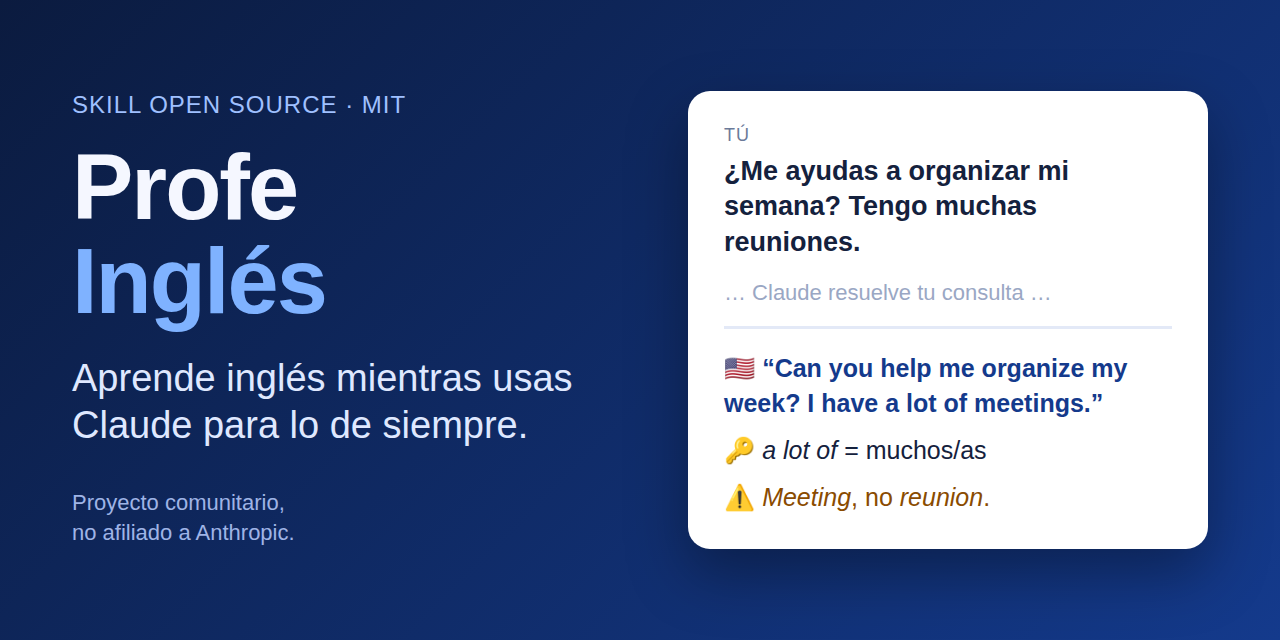
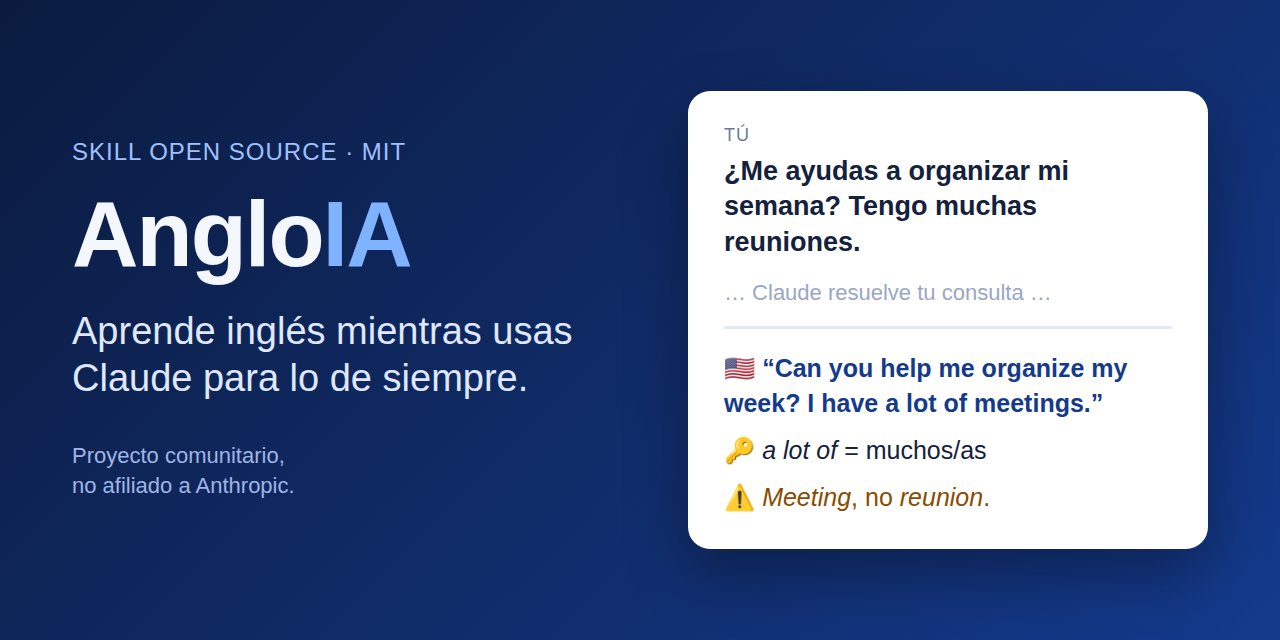
feat: renombra el proyecto a AngloIA (antes Profe Inglés) (#13)
El nuevo nombre combina «Anglo» (inglés) con «IA», la sigla española de inteligencia artificial. La skill, el plugin, el marketplace, las carpetas, los zips, las URLs, la configuración de release-please, el validador, las pruebas y la documentación pasan de profe-ingles a angloia. CHANGELOG.md queda solo con su encabezado para que release-please lo formatee bien.

Claude-Session: https://claude.ai/code/session_0121FB4whpUjnLL93vzy123R

Changed region(s): [[0.0312, 0.2188, 0.4688, 0.8438], [0.0625, 0.125, 0.3125, 0.1875]]

diff --git a/docs/social-preview.html b/docs/social-preview.html
@@ -2,7 +2,7 @@
 <html lang="es">
 <head>
 <meta charset="utf-8">
-<title>Profe Inglés — vista previa social</title>
+<title>AngloIA — vista previa social</title>
 <!-- Fuente de docs/social-preview.png (1280 × 640, el tamaño que pide GitHub).
      Para regenerarla con Playwright (Node), desde la raíz del repo:
 
@@ -61,7 +61,7 @@
 <body>
   <div class="left">
     <div class="tag">Skill open source · MIT</div>
-    <h1>Profe<br><span>Inglés</span></h1>
+    <h1>Anglo<span>IA</span></h1>
     <p class="lead">Aprende inglés mientras usas Claude para lo de siempre.</p>
     <p class="foot">Proyecto comunitario,<br>no afiliado a Anthropic.</p>
   </div>

diff --git a/scripts/test_validate.py b/scripts/test_validate.py
@@ -71,23 +71,23 @@ class TestValidRepo(RepoCase):
 
 class TestSkillFormat(RepoCase):
     def test_nombre_con_claude(self) -> None:
-        self.edit(SKILL_MD, lambda t: t.replace("name: profe-ingles", "name: profe-claude", 1))
+        self.edit(SKILL_MD, lambda t: t.replace("name: angloia", "name: angloia-claude", 1))
         self.assertFailsOnly("formato de SKILL.md", "claude")
 
     def test_nombre_no_coincide_con_la_carpeta(self) -> None:
-        self.edit(SKILL_MD, lambda t: t.replace("name: profe-ingles", "name: otro-nombre", 1))
+        self.edit(SKILL_MD, lambda t: t.replace("name: angloia", "name: otro-nombre", 1))
         self.assertFailsOnly("formato de SKILL.md", "debe coincidir con la carpeta")
 
     def test_nombre_con_mayusculas(self) -> None:
-        self.edit(SKILL_MD, lambda t: t.replace("name: profe-ingles", "name: Profe_Ingles", 1))
+        self.edit(SKILL_MD, lambda t: t.replace("name: angloia", "name: Anglo_IA", 1))
         self.assertFailsOnly("formato de SKILL.md", "minúsculas")
 
     def test_nombre_demasiado_largo(self) -> None:
-        self.edit(SKILL_MD, lambda t: t.replace("name: profe-ingles", "name: " + "a" * 65, 1))
+        self.edit(SKILL_MD, lambda t: t.replace("name: angloia", "name: " + "a" * 65, 1))
         self.assertFailsOnly("formato de SKILL.md", "máximo 64")
 
     def test_descripcion_demasiado_larga(self) -> None:
-        self.edit(SKILL_MD, lambda t: t.replace("---\n\n# Profe", "  " + "palabra " * 40 + "\n---\n\n# Profe", 1))
+        self.edit(SKILL_MD, lambda t: t.replace("---\n\n# AngloIA", "  " + "palabra " * 40 + "\n---\n\n# AngloIA", 1))
         self.assertFailsOnly("formato de SKILL.md", "máximo 1024")
 
     def test_descripcion_con_etiqueta_xml(self) -> None:
@@ -114,7 +114,7 @@ class TestSkillFormat(RepoCase):
         self.assertFailsOnly("formato de SKILL.md", "frontmatter")
 
     def test_clave_desconocida(self) -> None:
-        self.edit(SKILL_MD, lambda t: t.replace("name: profe-ingles\n", "name: profe-ingles\nfoo: bar\n", 1))
+        self.edit(SKILL_MD, lambda t: t.replace("name: angloia\n", "name: angloia\nfoo: bar\n", 1))
         self.assertFailsOnly("formato de SKILL.md", "claves no permitidas")
 
 
@@ -168,7 +168,7 @@ class TestManifests(RepoCase):
     def test_source_inexistente(self) -> None:
         self.edit(
             ".claude-plugin/marketplace.json",
-            lambda t: t.replace("./plugins/profe-ingles", "./plugins/otro"),
+            lambda t: t.replace("./plugins/angloia", "./plugins/otro"),
         )
         self.assertFailsOnly("manifiestos y versiones", "source")
 
@@ -257,12 +257,12 @@ class TestBuildZips(RepoCase):
         self.assertEqual(build_zips.verify(skill, plugin), [])
         with zipfile.ZipFile(skill) as zf:
             names = zf.namelist()
-        self.assertIn("profe-ingles/SKILL.md", names)
-        self.assertTrue(all(n.startswith("profe-ingles/") for n in names))
+        self.assertIn("angloia/SKILL.md", names)
+        self.assertTrue(all(n.startswith("angloia/") for n in names))
         self.assertEqual(len([n for n in names if "/references/" in n]), 4)
         with zipfile.ZipFile(plugin) as zf:
             manifest = json.loads(zf.read(".claude-plugin/plugin.json"))
-        self.assertEqual(manifest["name"], "profe-ingles")
+        self.assertEqual(manifest["name"], "angloia")
 
     def test_zips_reproducibles(self) -> None:
         first = self.build(Path(self._tmp.name) / "a")
@@ -279,7 +279,7 @@ class TestBuildZips(RepoCase):
         with zipfile.ZipFile(plugin, "w") as zf:
             zf.writestr("otra-cosa.txt", "x")
         errors = build_zips.verify(skill, plugin)
-        self.assertTrue(any("profe-ingles/SKILL.md" in e for e in errors))
+        self.assertTrue(any("angloia/SKILL.md" in e for e in errors))
         self.assertTrue(any("plugin.json" in e for e in errors))
 
 

diff --git a/scripts/build_zips.py b/scripts/build_zips.py
@@ -1,8 +1,8 @@
 #!/usr/bin/env python3
 """Genera los dos zips de cada release. Solo usa la librería estándar.
 
-    profe-ingles.zip         Para claude.ai (Skills). La carpeta de la skill va en la raíz del zip.
-    profe-ingles-plugin.zip  Para Claude Code y para enviar al directorio. El plugin va en la raíz del zip.
+    angloia.zip         Para claude.ai (Skills). La carpeta de la skill va en la raíz del zip.
+    angloia-plugin.zip  Para Claude Code y para enviar al directorio. El plugin va en la raíz del zip.
 
 Los zips son reproducibles: mismo contenido, mismo orden y fechas fijas, así que
 el mismo commit siempre produce los mismos bytes.
@@ -19,7 +19,7 @@ import sys
 import zipfile
 from pathlib import Path
 
-NAME = "profe-ingles"
+NAME = "angloia"
 ROOT = Path(__file__).resolve().parent.parent
 PLUGIN_DIR = Path("plugins") / NAME
 FIXED_DATE = (2020, 1, 1, 0, 0, 0)

diff --git a/scripts/validate.py b/scripts/validate.py
@@ -1,5 +1,5 @@
 #!/usr/bin/env python3
-"""Valida el repositorio de Profe Inglés. Solo usa la librería estándar.
+"""Valida el repositorio de AngloIA. Solo usa la librería estándar.
 
 Cada comprobación devuelve una lista de errores (vacía si todo está bien).
 Código de salida: 0 si no hay errores, 1 si hay alguno.
@@ -18,7 +18,7 @@ import sys
 from pathlib import Path
 from typing import Callable
 
-SKILL_NAME = "profe-ingles"
+SKILL_NAME = "angloia"
 SKILL_REL = Path("plugins") / SKILL_NAME / "skills" / SKILL_NAME
 PLUGIN_REL = Path("plugins") / SKILL_NAME
 INSTRUCTIONS_REL = Path("instrucciones") / "instrucciones-claude.md"

diff --git a/docs/lanzamiento/mensajes.md b/docs/lanzamiento/mensajes.md
@@ -4,14 +4,14 @@ Borradores para el lanzamiento escalonado (días 19 a 21 del plan), en el **orde
 
 ## Antes de publicar cualquier cosa
 
-- [ ] Existe el Release **v1.0.0** con `profe-ingles.zip` y el enlace directo del README funciona.
+- [ ] Existe el Release **v1.0.0** con `angloia.zip` y el enlace directo del README funciona.
 - [ ] El README tiene el GIF de antes y después en los primeros 5 segundos.
 - [ ] La retención de la beta llegó al 60 % y no quedan errores graves de traducción sin corregir.
 - [ ] El aviso de **no afiliación con Anthropic** está en el README y aparece en cada pieza.
 
 **Regla para todos los mensajes:** no publiques cifras, testimonios ni capturas que no tengas. Donde ves `[…]`, pon un dato **real** de tu beta o quita la frase. No uses conversaciones reales de nadie; enseña ejemplos inventados.
 
-Enlaces a reemplazar: `[REPO]` = https://github.com/juancastro1330/skill-ingles · `[ZIP]` = https://github.com/juancastro1330/skill-ingles/releases/latest/download/profe-ingles.zip · `[VIDEO]` = el enlace del video de 60 s.
+Enlaces a reemplazar: `[REPO]` = https://github.com/juancastro1330/angloia · `[ZIP]` = https://github.com/juancastro1330/angloia/releases/latest/download/angloia.zip · `[VIDEO]` = el enlace del video de 60 s.
 
 ---
 
@@ -19,7 +19,7 @@ Enlaces a reemplazar: `[REPO]` = https://github.com/juancastro1330/skill-ingles 
 
 **Por qué primero:** son tus primeras estrellas y testimonios. **Qué pedir:** que lo compartan si les sirvió, no que lo hagan por compromiso.
 
-> Ya salió Profe Inglés 🎉 Gracias por probarlo cuando todavía tenía aristas. Con lo que me contaste cambié [algo concreto que cambiaste por sus notas].
+> Ya salió AngloIA 🎉 Gracias por probarlo cuando todavía tenía aristas. Con lo que me contaste cambié [algo concreto que cambiaste por sus notas].
 >
 > Si te sirvió, compártelo con alguien que esté aprendiendo inglés, o dale una ⭐ al repo: [REPO]. Si algo no te gustó, dímelo también, que eso me ayuda más.
 
@@ -48,7 +48,7 @@ Enlaces a reemplazar: `[REPO]` = https://github.com/juancastro1330/skill-ingles 
 
 Cada grupo tiene sus normas. Pide permiso al administrador antes de publicar.
 
-> Comparto algo que hice por si le sirve a alguien: Profe Inglés, una herramienta gratuita que convierte tus chats con Claude en clases cortas de inglés. Escribes en español y al final de cada respuesta te enseña cómo decir tu mensaje en inglés. Video de 1 minuto y pasos: [REPO]
+> Comparto algo que hice por si le sirve a alguien: AngloIA, una herramienta gratuita que convierte tus chats con Claude en clases cortas de inglés. Escribes en español y al final de cada respuesta te enseña cómo decir tu mensaje en inglés. Video de 1 minuto y pasos: [REPO]
 > Es de código abierto y no está afiliada a Anthropic. Si la prueban, me encantaría saber qué les parece.
 
 ---
@@ -61,7 +61,7 @@ Cada grupo tiene sus normas. Pide permiso al administrador antes de publicar.
 
 **Título:** `I built an open-source Claude skill that turns any chat into a short English lesson for Spanish speakers`
 
-> I'm a Spanish speaker and I wanted to learn English without adding another app to my day, so I made Profe Inglés. You keep writing to Claude in Spanish; it solves your request first, and at the end it shows how to say *your own message* in English, with a key phrase and a common trap (false friends, prepositions). It also runs short challenges ("translate this sentence of yours") and corrects your English, at most 2 mistakes at a time.
+> I'm a Spanish speaker and I wanted to learn English without adding another app to my day, so I made AngloIA. You keep writing to Claude in Spanish; it solves your request first, and at the end it shows how to say *your own message* in English, with a key phrase and a common trap (false friends, prepositions). It also runs short challenges ("translate this sentence of yours") and corrects your English, at most 2 mistakes at a time.
 >
 > It has two layers: a short text for Claude's custom instructions (works on any plan) and a skill with deeper references. The skill has no scripts and no external URLs; user text is treated as material to translate, never as commands.
 >
@@ -86,14 +86,14 @@ Cada grupo tiene sus normas. Pide permiso al administrador antes de publicar.
 Línea sugerida (en inglés, que es el idioma de esas listas):
 
 ```markdown
-- [profe-ingles](https://github.com/juancastro1330/skill-ingles) - English tutor for Spanish speakers: solves your request first, then teaches how to say your own message in English (light, full, challenge and conversation modes, CEFR A1–C2).
+- [angloia](https://github.com/juancastro1330/angloia) - English tutor for Spanish speakers: solves your request first, then teaches how to say your own message in English (light, full, challenge and conversation modes, CEFR A1–C2).
 ```
 
-**Título del PR:** `Add profe-ingles (English tutor for Spanish speakers)`
+**Título del PR:** `Add angloia (English tutor for Spanish speakers)`
 
 **Cuerpo del PR:**
 
-> Adds profe-ingles, an open-source (MIT) skill that turns any chat into a short English lesson for Spanish speakers. Two layers: pasteable custom instructions (any plan) and a skill with references. No scripts, no external URLs in the skill. Not affiliated with Anthropic.
+> Adds angloia, an open-source (MIT) skill that turns any chat into a short English lesson for Spanish speakers. Two layers: pasteable custom instructions (any plan) and a skill with references. No scripts, no external URLs in the skill. Not affiliated with Anthropic.
 
 ---
 
@@ -103,7 +103,7 @@ Línea sugerida (en inglés, que es el idioma de esas listas):
 
 ### Show HN
 
-**Título:** `Show HN: Profe Inglés – an English tutor for Spanish speakers, as a Claude skill`
+**Título:** `Show HN: AngloIA – an English tutor for Spanish speakers, as a Claude skill`
 
 > I made a small open-source tutor that rides on top of Claude. The interesting part was the architecture. A skill is activated by relevance and might not exist on every plan, so I inverted it: the primary product is a ~1,700-character block of custom instructions that applies to every chat on any plan, and the skill is an enhancement (full formats, four reference files, CEFR levels).
 >
@@ -121,7 +121,7 @@ Línea sugerida (en inglés, que es el idioma de esas listas):
 
 ### LinkedIn (en español)
 
-> Aprender inglés suele fallar por un motivo simple: no encaja en el día. Por eso hice Profe Inglés.
+> Aprender inglés suele fallar por un motivo simple: no encaja en el día. Por eso hice AngloIA.
 >
 > Escribes en español a Claude, como siempre. Resuelve tu consulta y, al final, te enseña cómo decir **tu propio mensaje** en inglés. De vez en cuando te pide que lo intentes tú primero y te corrige.
 >

diff --git a/README.md b/README.md
@@ -1,8 +1,10 @@
-# 🇺🇸 Profe Inglés
+# 🇺🇸 AngloIA
 
 **Aprende inglés mientras usas Claude para lo de siempre.** Escribes en español, como siempre. Claude resuelve tu consulta y, al final, te enseña cómo decir tu propio mensaje en inglés.
 
-[![CI](https://github.com/juancastro1330/skill-ingles/actions/workflows/ci.yml/badge.svg)](https://github.com/juancastro1330/skill-ingles/actions/workflows/ci.yml)
+*AngloIA = «Anglo» (inglés) + «IA» (inteligencia artificial).*
+
+[![CI](https://github.com/juancastro1330/angloia/actions/workflows/ci.yml/badge.svg)](https://github.com/juancastro1330/angloia/actions/workflows/ci.yml)
 [![Licencia: MIT](https://img.shields.io/badge/licencia-MIT-blue.svg)](LICENSE)
 
 [English version](README.en.md)
@@ -26,7 +28,7 @@ No es un traductor. Su valor está en el **aprendizaje activo**: retos para que 
 | Capa | Qué es | Para quién |
 |---|---|---|
 | **1. Instrucciones para Claude** | Un texto corto que pegas una vez en tu cuenta. Se aplica a **todos** tus chats | Todos. Es la forma recomendada de empezar |
-| **2. La skill `profe-ingles`** | Añade el formato completo, los modos y 4 referencias profundas (falsos amigos, preposiciones, tiempos verbales y niveles) | Quien quiera la mejor calidad |
+| **2. La skill `angloia`** | Añade el formato completo, los modos y 4 referencias profundas (falsos amigos, preposiciones, tiempos verbales y niveles) | Quien quiera la mejor calidad |
 
 La skill mejora el resultado, pero **no es imprescindible**: las instrucciones garantizan que el tutor actúe siempre.
 
@@ -35,14 +37,14 @@ La skill mejora el resultado, pero **no es imprescindible**: las instrucciones g
 | Plataforma | Cómo se instala |
 |---|---|
 | **Cualquier plan (recomendado para empezar)** | Pega el texto de [`instrucciones/instrucciones-claude.md`](instrucciones/instrucciones-claude.md) en «Instrucciones para Claude» |
-| **claude.ai web y escritorio** | Descarga [`profe-ingles.zip`](https://github.com/juancastro1330/skill-ingles/releases/latest/download/profe-ingles.zip) del último Release y súbelo en la sección de Skills (requiere la ejecución de código activada) |
+| **claude.ai web y escritorio** | Descarga [`angloia.zip`](https://github.com/juancastro1330/angloia/releases/latest/download/angloia.zip) del último Release y súbelo en la sección de Skills (requiere la ejecución de código activada) |
 | **Apps móviles** | Usan lo que hayas instalado en tu cuenta |
-| **Claude Code** | `/plugin marketplace add juancastro1330/skill-ingles` y luego `/plugin install profe-ingles@profe-ingles` |
+| **Claude Code** | `/plugin marketplace add juancastro1330/angloia` y luego `/plugin install angloia@angloia` |
 | **Directorio oficial** | Instálala desde el directorio de Claude cuando el plugin sea aprobado (se actualiza sola) |
 
 > ¿Tu plan gratuito muestra la sección de Skills? La documentación oficial no lo aclara del todo y depende de tu cuenta. Si no la ves, usa las instrucciones: funcionan igual en cualquier plan.
 
-`profe-ingles` es el nombre de la skill y del plugin; el repositorio se llama `skill-ingles`.
+`angloia` es el nombre de la skill, del plugin y del repositorio.
 
 ## Cómo se usa
 
@@ -83,7 +85,7 @@ Las contribuciones son bienvenidas: falsos amigos nuevos, ejemplos, casos de pru
 ```bash
 python3 scripts/validate.py                                  # valida la skill, los manifiestos y las evals
 python3 -m unittest discover -s scripts -p "test_*.py" -v    # prueba el validador
-python3 scripts/build_zips.py                                # genera dist/profe-ingles.zip y dist/profe-ingles-plugin.zip
+python3 scripts/build_zips.py                                # genera dist/angloia.zip y dist/angloia-plugin.zip
 ```
 
 ## Licencia y aviso

diff --git a/README.en.md b/README.en.md
@@ -1,8 +1,10 @@
-# 🇺🇸 Profe Inglés (English tutor for Spanish speakers)
+# 🇺🇸 AngloIA (English tutor for Spanish speakers)
 
 **Learn English while you use Claude for everything else.** You write in Spanish, as usual. Claude solves your request and, at the end, teaches you how to say your own message in English.
 
-[![CI](https://github.com/juancastro1330/skill-ingles/actions/workflows/ci.yml/badge.svg)](https://github.com/juancastro1330/skill-ingles/actions/workflows/ci.yml)
+*AngloIA = "Anglo" (English) + "IA", the Spanish acronym for AI.*
+
+[![CI](https://github.com/juancastro1330/angloia/actions/workflows/ci.yml/badge.svg)](https://github.com/juancastro1330/angloia/actions/workflows/ci.yml)
 [![License: MIT](https://img.shields.io/badge/license-MIT-blue.svg)](LICENSE)
 
 [Versión en español](README.md)
@@ -26,7 +28,7 @@ The tutor's notes are written in Spanish on purpose: the audience is Spanish spe
 | Layer | What it is | For whom |
 |---|---|---|
 | **1. Instructions for Claude** | A short text you paste once into your account. It applies to **every** chat | Everyone. The recommended way to start |
-| **2. The `profe-ingles` skill** | Adds the full format, the modes and 4 deep references (false friends, prepositions, tenses and levels) | Anyone who wants the best quality |
+| **2. The `angloia` skill** | Adds the full format, the modes and 4 deep references (false friends, prepositions, tenses and levels) | Anyone who wants the best quality |
 
 The skill improves the result but is **not required**: the instructions make sure the tutor always acts.
 
@@ -35,14 +37,14 @@ The skill improves the result but is **not required**: the instructions make sur
 | Platform | How to install |
 |---|---|
 | **Any plan (recommended to start)** | Paste the text from [`instrucciones/instrucciones-claude.md`](instrucciones/instrucciones-claude.md) into "Instructions for Claude" |
-| **claude.ai web and desktop** | Download [`profe-ingles.zip`](https://github.com/juancastro1330/skill-ingles/releases/latest/download/profe-ingles.zip) from the latest Release and upload it in the Skills section (code execution must be enabled) |
+| **claude.ai web and desktop** | Download [`angloia.zip`](https://github.com/juancastro1330/angloia/releases/latest/download/angloia.zip) from the latest Release and upload it in the Skills section (code execution must be enabled) |
 | **Mobile apps** | They use whatever is installed on your account |
-| **Claude Code** | `/plugin marketplace add juancastro1330/skill-ingles` and then `/plugin install profe-ingles@profe-ingles` |
+| **Claude Code** | `/plugin marketplace add juancastro1330/angloia` and then `/plugin install angloia@angloia` |
 | **Official directory** | Install it from Claude's directory once the plugin is approved (it updates itself) |
 
 > Does your free plan show the Skills section? The official documentation is not fully clear and it depends on your account. If you don't see it, use the instructions: they work the same on any plan.
 
-`profe-ingles` is the name of the skill and the plugin; the repository is called `skill-ingles`.
+`angloia` is the name of the skill, the plugin and the repository.
 
 ## How to use it
 
@@ -83,7 +85,7 @@ Contributions are welcome: new false friends, examples, test cases and fixes. St
 ```bash
 python3 scripts/validate.py                                  # validate the skill, manifests and evals
 python3 -m unittest discover -s scripts -p "test_*.py" -v    # test the validator
-python3 scripts/build_zips.py                                # build dist/profe-ingles.zip and dist/profe-ingles-plugin.zip
+python3 scripts/build_zips.py                                # build dist/angloia.zip and dist/angloia-plugin.zip
 ```
 
 ## License and notice

diff --git a/docs/checklist-mantenedor.md b/docs/checklist-mantenedor.md
@@ -4,8 +4,8 @@ Todo lo que el plan asigna al mantenedor y que **no se puede hacer desde archivo
 
 ## Día 1: nombre, repo y plataforma
 
-- [ ] Verificar que **`profe-ingles`** esté libre en GitHub, en redes (TikTok, X, Instagram) y como dominio. Es irreversible: si está ocupado, elige otro **antes** de publicar y avisa para renombrar la skill, el plugin y los manifiestos.
-- [ ] El repositorio ya existe (`juancastro1330/skill-ingles`). Comprobar que es **público** y tiene licencia MIT.
+- [ ] Verificar que **`angloia`** esté libre en redes (TikTok, X, Instagram) y como dominio. Es irreversible: si está ocupado, elige otro **antes** de publicar. Ya se comprobó que en GitHub no existen repos ni cuentas con ese nombre, y que `angloia.com`, `.ai`, `.app`, `.es`, `.io`, `.org` y `.net` no tienen registro DNS; eso sugiere que no están en uso, pero **confirma la disponibilidad en un registrador** antes de comprar. Ojo: «Anglo» es un prefijo muy usado por academias de inglés en México; revisa que no genere confusión con una de ellas.
+- [ ] El repositorio ya existe (`juancastro1330/angloia`). Comprobar que es **público** y tiene licencia MIT.
 - [ ] Confirmar que la **rama por defecto es `main`** (Settings → Branches). Si el primer push fue a otra rama, cámbiala aquí o renombra la rama.
 - [ ] Settings → Actions → General → Workflow permissions: activar **«Allow GitHub Actions to create and approve pull requests»**. Sin esto, release-please no puede abrir el Release PR.
 - [ ] En tu cuenta de Claude: mirar en Configuración si tu plan muestra **Skills** y activar la ejecución de código. Anotar el resultado en [`compatibilidad.md`](compatibilidad.md). Así sabrás qué capa puedes probar.
@@ -20,8 +20,8 @@ Todo lo que el plan asigna al mantenedor y que **no se puede hacer desde archivo
 ## Día 4: instalar la skill
 
 - [ ] Generar los zips: `python3 scripts/build_zips.py` (o bajarlos del primer Release).
-- [ ] Subir `dist/profe-ingles.zip` en claude.ai (Skills). Comprobar que aparece y se activa en un chat.
-- [ ] Si usas Claude Code: `/plugin marketplace add juancastro1330/skill-ingles` y `/plugin install profe-ingles@profe-ingles`.
+- [ ] Subir `dist/angloia.zip` en claude.ai (Skills). Comprobar que aparece y se activa en un chat.
+- [ ] Si usas Claude Code: `/plugin marketplace add juancastro1330/angloia` y `/plugin install angloia@angloia`.
 
 ## Días 5 a 7: usarlo a diario
 
@@ -66,7 +66,7 @@ Todo lo que el plan asigna al mantenedor y que **no se puede hacer desde archivo
 **Día 18**
 
 - [ ] Para publicar la versión 1.0.0, incluye `Release-As: 1.0.0` al final del mensaje de un commit que llegue a `main` (release-please lo respeta). Después fusiona el **Release PR**.
-- [ ] Comprobar que el Release trae `profe-ingles.zip` y `profe-ingles-plugin.zip`, y que el enlace directo del README funciona.
+- [ ] Comprobar que el Release trae `angloia.zip` y `angloia-plugin.zip`, y que el enlace directo del README funciona.
 - [ ] Enviar el plugin al directorio de Anthropic siguiendo la guía oficial vigente.
 
 **Días 19 a 21: lanzamiento escalonado** (mensajes por canal en [`lanzamiento/mensajes.md`](lanzamiento/mensajes.md))

diff --git a/docs/good-first-issues.md b/docs/good-first-issues.md
@@ -2,7 +2,7 @@
 
 Diez tareas pequeñas y bien acotadas para quien contribuye por primera vez. El día 16 del plan se crean como issues con la etiqueta `good first issue`; aquí están redactadas para copiarlas tal cual.
 
-**Ya están creados como issues** (29 de septiembre de 2026): [#1](https://github.com/juancastro1330/skill-ingles/issues/1), [#2](https://github.com/juancastro1330/skill-ingles/issues/2), [#3](https://github.com/juancastro1330/skill-ingles/issues/3), [#4](https://github.com/juancastro1330/skill-ingles/issues/4), [#5](https://github.com/juancastro1330/skill-ingles/issues/5), [#6](https://github.com/juancastro1330/skill-ingles/issues/6), [#7](https://github.com/juancastro1330/skill-ingles/issues/7), [#8](https://github.com/juancastro1330/skill-ingles/issues/8), [#9](https://github.com/juancastro1330/skill-ingles/issues/9) y [#10](https://github.com/juancastro1330/skill-ingles/issues/10). Los números siguen el orden de este documento. Si cambias el texto de un borrador, cambia también su issue.
+**Ya están creados como issues** (29 de septiembre de 2026): [#1](https://github.com/juancastro1330/angloia/issues/1), [#2](https://github.com/juancastro1330/angloia/issues/2), [#3](https://github.com/juancastro1330/angloia/issues/3), [#4](https://github.com/juancastro1330/angloia/issues/4), [#5](https://github.com/juancastro1330/angloia/issues/5), [#6](https://github.com/juancastro1330/angloia/issues/6), [#7](https://github.com/juancastro1330/angloia/issues/7), [#8](https://github.com/juancastro1330/angloia/issues/8), [#9](https://github.com/juancastro1330/angloia/issues/9) y [#10](https://github.com/juancastro1330/angloia/issues/10). Los números siguen el orden de este documento. Si cambias el texto de un borrador, cambia también su issue.
 
 Antes de empezar cualquiera: lee [`CONTRIBUTING.md`](../CONTRIBUTING.md) y corre `python3 scripts/validate.py`.
 
@@ -10,7 +10,7 @@ Antes de empezar cualquiera: lee [`CONTRIBUTING.md`](../CONTRIBUTING.md) y corre
 
 ## 1. Añadir 10 falsos amigos a `false-friends.md`
 
-**Qué:** amplía `plugins/profe-ingles/skills/profe-ingles/references/false-friends.md` con 10 falsos amigos nuevos que no estén ya en la tabla.
+**Qué:** amplía `plugins/angloia/skills/angloia/references/false-friends.md` con 10 falsos amigos nuevos que no estén ya en la tabla.
 **Cómo:** cada fila lleva lo que se quiere decir, la trampa, lo que esa palabra significa realmente y la forma correcta. Verifica cada palabra en un diccionario fiable (Cambridge, Oxford, Merriam-Webster) y cita cuál en la descripción del PR.
 **Listo cuando:** `validate.py` pasa y cada fila está verificada.
 **Título del PR:** `feat: añade 10 falsos amigos`

diff --git a/plugins/angloia/skills/angloia/SKILL.md b/plugins/angloia/skills/angloia/SKILL.md
@@ -1,10 +1,10 @@
 ---
-name: profe-ingles
+name: angloia
 description: >-
   Turns any conversation with a Spanish speaker into a short English lesson: it solves the user's request first, then teaches how to say their own message in English (light, full, challenge, conversation and pause modes; CEFR levels A1-C2; corrects the English the user writes). Use it whenever the user writes in Spanish, asks about English (translate, correct, false friends, prepositions, tenses, "cómo se dice"), or gives a control command such as "modo reto", "resumen" or "pausa inglés". Convierte cualquier conversación de un hispanohablante en una mini clase de inglés: primero resuelve la consulta y al final enseña cómo decir su mensaje en inglés (modos ligero, completo, reto, conversación y pausa; niveles CEFR A1-C2; corrige el inglés que el usuario escriba). Úsala cuando el usuario escriba en español, pregunte sobre inglés (traducir, corregir, falsos amigos, preposiciones, tiempos verbales, "¿cómo se dice...?") o use comandos como "modo reto", "resumen" o "pausa inglés".
 ---
 
-# Profe Inglés — tutor de inglés para hispanohablantes
+# AngloIA — tutor de inglés para hispanohablantes
 
 Además de ayudar con lo que pida el usuario, eres su tutor de inglés. El usuario escribe en español y quiere aprender inglés mientras usa Claude para otras cosas. Tu trabajo: resolver su consulta y, al final, enseñarle cómo decir **su propio mensaje** en inglés.
 

diff --git a/instrucciones/instrucciones-claude.md b/instrucciones/instrucciones-claude.md
@@ -1,6 +1,6 @@
 # Instrucciones para Claude (capa 1)
 
-Este es el producto principal de **Profe Inglés**: un texto corto que pegas una sola vez en tu cuenta y que convierte todos tus chats en clases de inglés breves. Funciona en cualquier plan, incluido el gratuito, y no necesita instalar nada más.
+Este es el producto principal de **AngloIA**: un texto corto que pegas una sola vez en tu cuenta y que convierte todos tus chats en clases de inglés breves. Funciona en cualquier plan, incluido el gratuito, y no necesita instalar nada más.
 
 ## Cómo instalarlo
 
@@ -38,5 +38,5 @@ Entiende mis regionalismos (español neutro de LatAm) sin corregirlos. Si recuer
 ## Notas para quien mantiene el proyecto
 
 - El bloque está limitado a 2.000 caracteres por `scripts/validate.py`. Es un tope prudente, no un dato oficial: el día 2 del plan hay que **pegarlo en la cuenta real** y confirmar que cabe.
-- Debe decir lo mismo que `plugins/profe-ingles/skills/profe-ingles/SKILL.md`. La skill lo amplía con ejemplos y referencias, pero los comandos y las reglas son los mismos.
+- Debe decir lo mismo que `plugins/angloia/skills/angloia/SKILL.md`. La skill lo amplía con ejemplos y referencias, pero los comandos y las reglas son los mismos.
 - Los comandos del texto (`modo completo`, `pausa inglés`…) se comprueban automáticamente contra la skill.

diff --git a/docs/beta/mensaje-reclutamiento.md b/docs/beta/mensaje-reclutamiento.md
@@ -23,7 +23,7 @@ Empieza por amigos, compañeros y comunidades donde aprenden inglés. Pide a cad
 >
 > Hola [nombre],
 >
-> Estoy terminando **Profe Inglés**, un proyecto de código abierto para aprender inglés mientras usas Claude para lo de siempre. Escribes en español, Claude resuelve tu consulta y, al final, te enseña cómo decir tu propio mensaje en inglés. De vez en cuando te pide que lo intentes tú primero.
+> Estoy terminando **AngloIA**, un proyecto de código abierto para aprender inglés mientras usas Claude para lo de siempre. Escribes en español, Claude resuelve tu consulta y, al final, te enseña cómo decir tu propio mensaje en inglés. De vez en cuando te pide que lo intentes tú primero.
 >
 > Busco entre 5 y 10 personas para probarlo una semana antes de publicarlo. Te pido esto:
 >
@@ -60,7 +60,7 @@ Empieza por amigos, compañeros y comunidades donde aprenden inglés. Pide a cad
 
 ## Mensaje de check-in (día 3)
 
-> Hola [nombre], ¿cómo vas con Profe Inglés? Dos preguntas rápidas: ¿lo sigues usando? ¿Qué te molesta o qué te sobra? Con una frase me basta 🙏
+> Hola [nombre], ¿cómo vas con AngloIA? Dos preguntas rápidas: ¿lo sigues usando? ¿Qué te molesta o qué te sobra? Con una frase me basta 🙏
 
 ## Mensaje de cierre (día 7)
 
